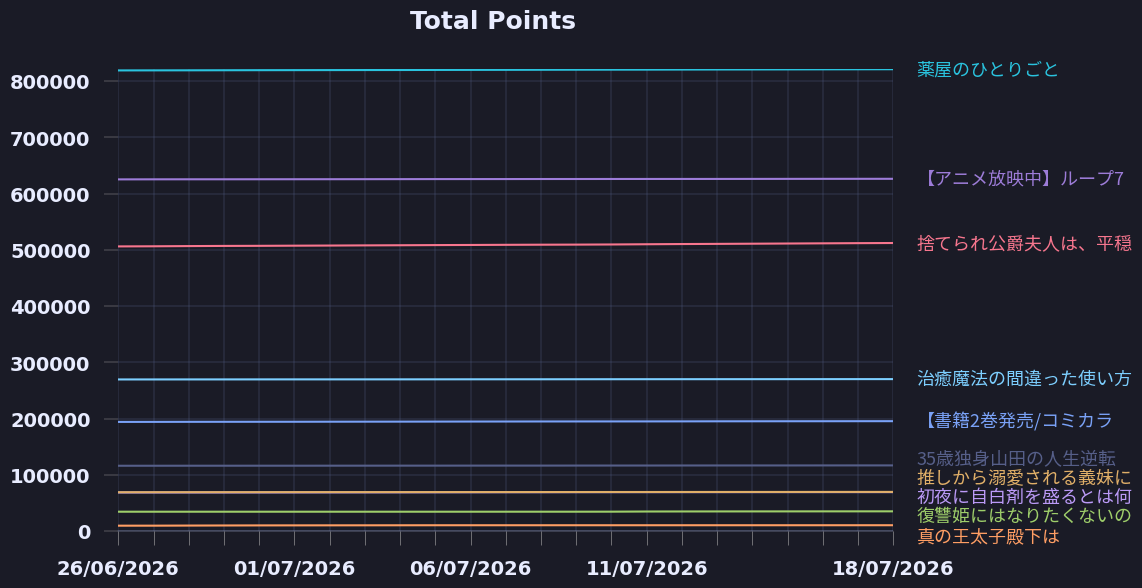
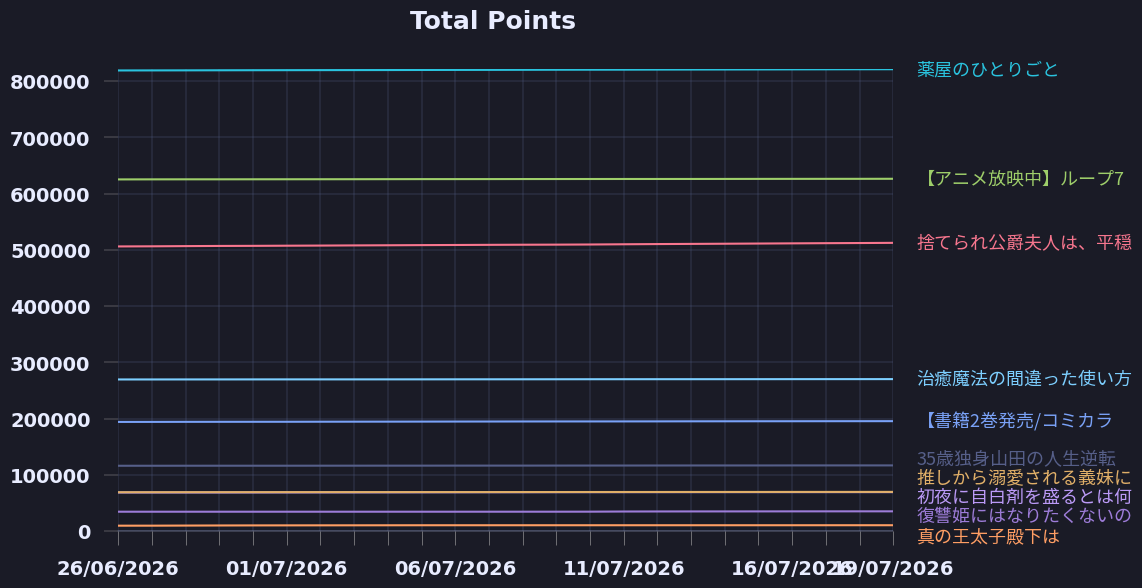
update plots

diff --git a/README.md b/README.md
@@ -12,8 +12,8 @@
 2. [薬屋のひとりごと](https://ncode.syosetu.com/n9636x/)
 3. [【書籍2巻発売/コミカライズ連載中】悪役令嬢の矜持〜婚約者を奪い取って義姉を追い出した私は、どうやら今から破滅するようです。〜](https://ncode.syosetu.com/n0753hr/)
 4. [真の王太子殿下は](https://ncode.syosetu.com/n7870io/)
-5. [復讐姫にはなりたくないので全て悪役に押し付けます](https://ncode.syosetu.com/n5872io/)
-6. [【アニメ放映中】ループ7回目の悪役令嬢は、元敵国で自由気ままな花嫁生活を満喫する](https://ncode.syosetu.com/n1784ga/)
+5. [【アニメ放映中】ループ7回目の悪役令嬢は、元敵国で自由気ままな花嫁生活を満喫する](https://ncode.syosetu.com/n1784ga/)
+6. [復讐姫にはなりたくないので全て悪役に押し付けます](https://ncode.syosetu.com/n5872io/)
 7. [初夜に自白剤を盛るとは何事か！　悪役令嬢は、洗いざらいすべてをぶちまけた](https://ncode.syosetu.com/n2873ii/)
 8. [35歳独身山田の人生逆転魔法　～現代社会に疲れた俺は異世界でスローライフを楽しむために現代で悪魔と戦って金儲けをしながら異世界村を発展させることにしました～](https://ncode.syosetu.com/n3115io/)
 9. [推しから溺愛される義妹に転生しました](https://ncode.syosetu.com/n5287io/)
